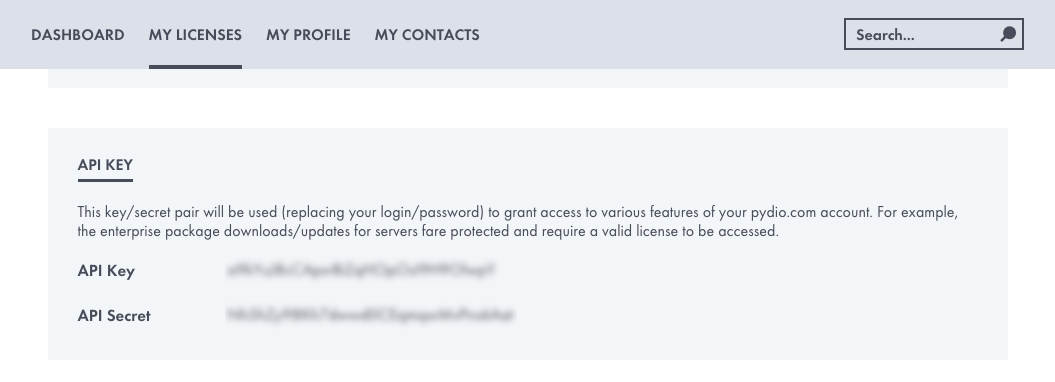
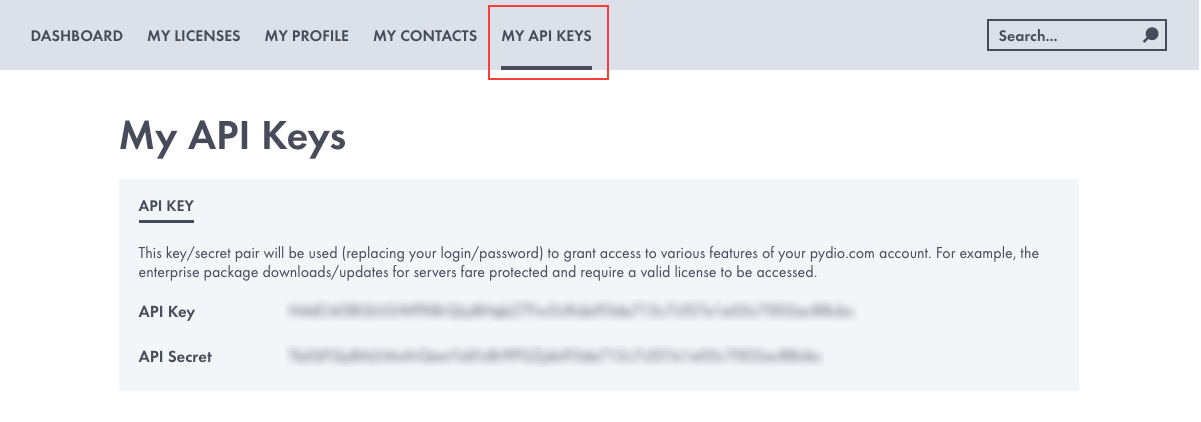
Update API Key image

diff --git a/1_installation_guide/1_install_pydio/2_debian.md b/1_installation_guide/1_install_pydio/2_debian.md
@@ -1,6 +1,6 @@
 ## 2.1) Create an account to grab your API Credentials
 
-Our Enterprise Repositories are password-protected via API Key and API Secret. These are provided by default when you have a valid Pydio Enterprise License. By simply registering at pydio.com you can claim your free 10 users Licence! You can find them in your dashboard and will be instantly provisioned, so it's just a matter of minutes. Once you have it, you can find the Api Key and Api Secret at the bottom of your license page in your Dashboard:
+Our Enterprise Repositories are password-protected via API Key and API Secret. You can find them in your Pydio.com Account, under the "My API Keys" menu:
 
 [:image-popup:1_installation_guide/install_pydio_api_keys.png]
 

diff --git a/1_installation_guide/1_install_pydio/3_centos.md b/1_installation_guide/1_install_pydio/3_centos.md
@@ -1,6 +1,6 @@
 ## 2.1) Create an account to grab your API Credentials
 
-Our Enterprise Repositories are password-protected via API Key and API Secret. These are provided by default when you have a valid Pydio Enterprise License. By simply registering at pydio.com you can claim your free 10 users Licence! You can find them in your dashboard and will be instantly provisioned, so it's just a matter of minutes. Once you have it, you can find the Api Key and Api Secret at the bottom of your license page in your Dashboard:
+Our Enterprise Repositories are password-protected via API Key and API Secret. You can find them in your Pydio.com Account, under the "My API Keys" menu:
 
 [:image-popup:1_installation_guide/install_pydio_api_keys.png]
 
